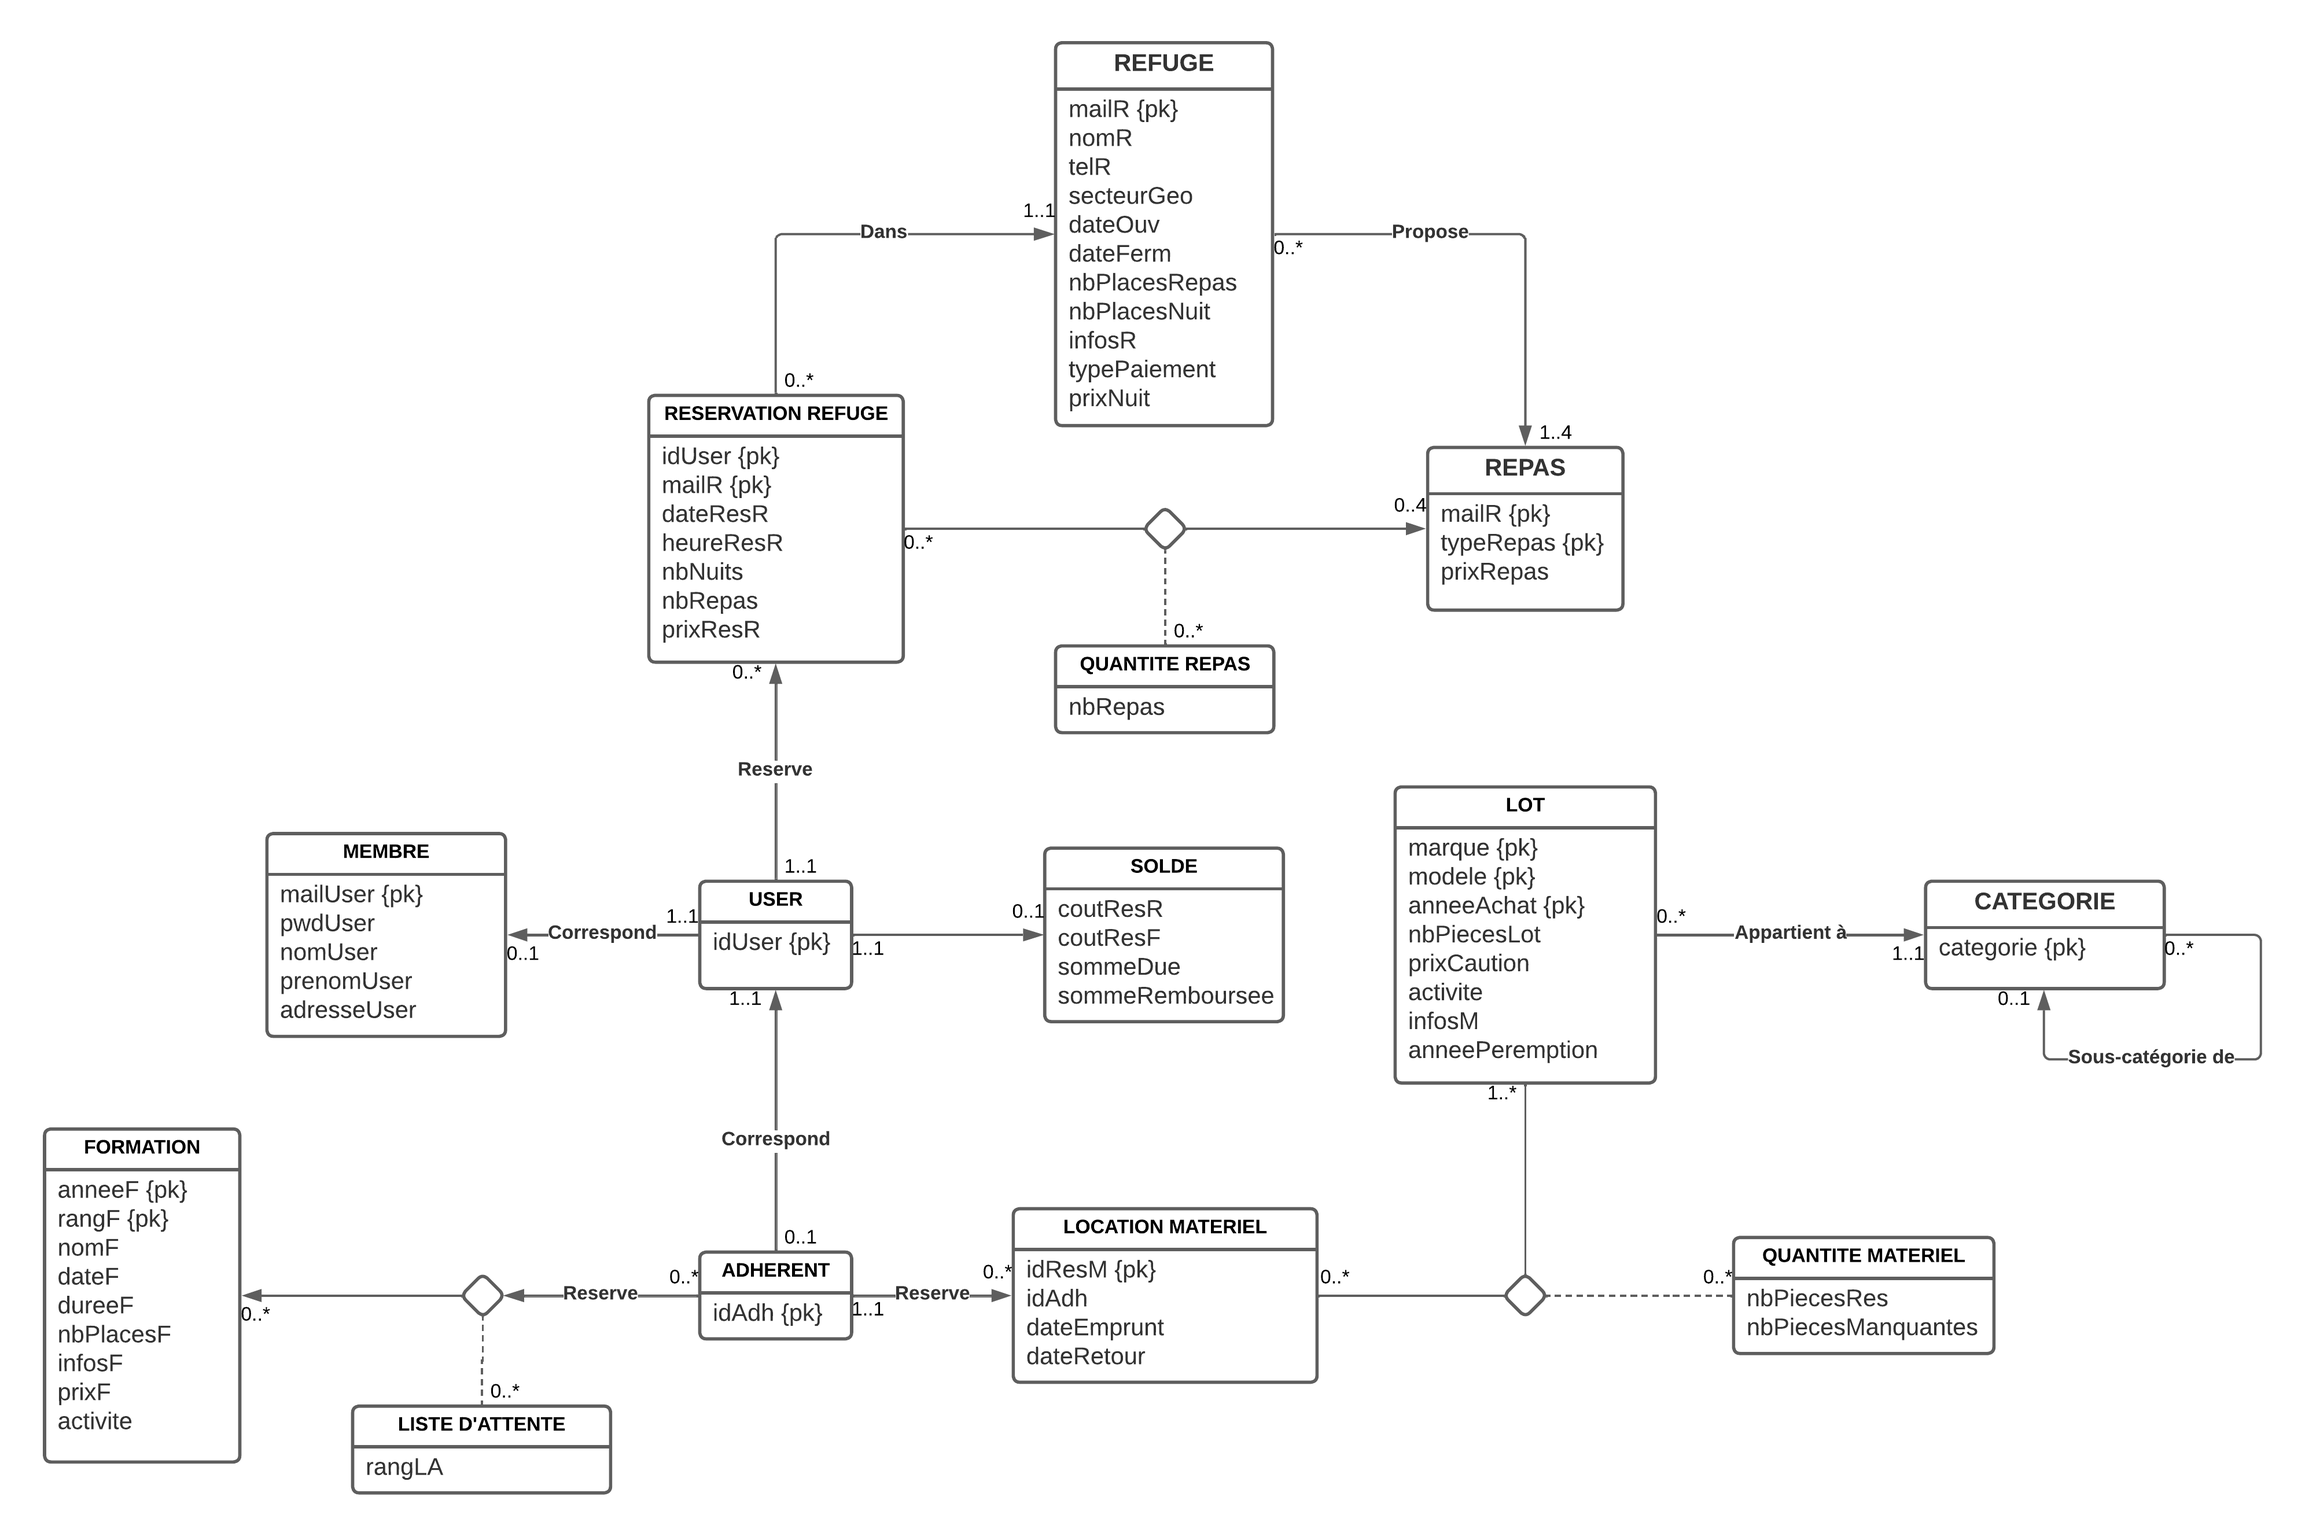
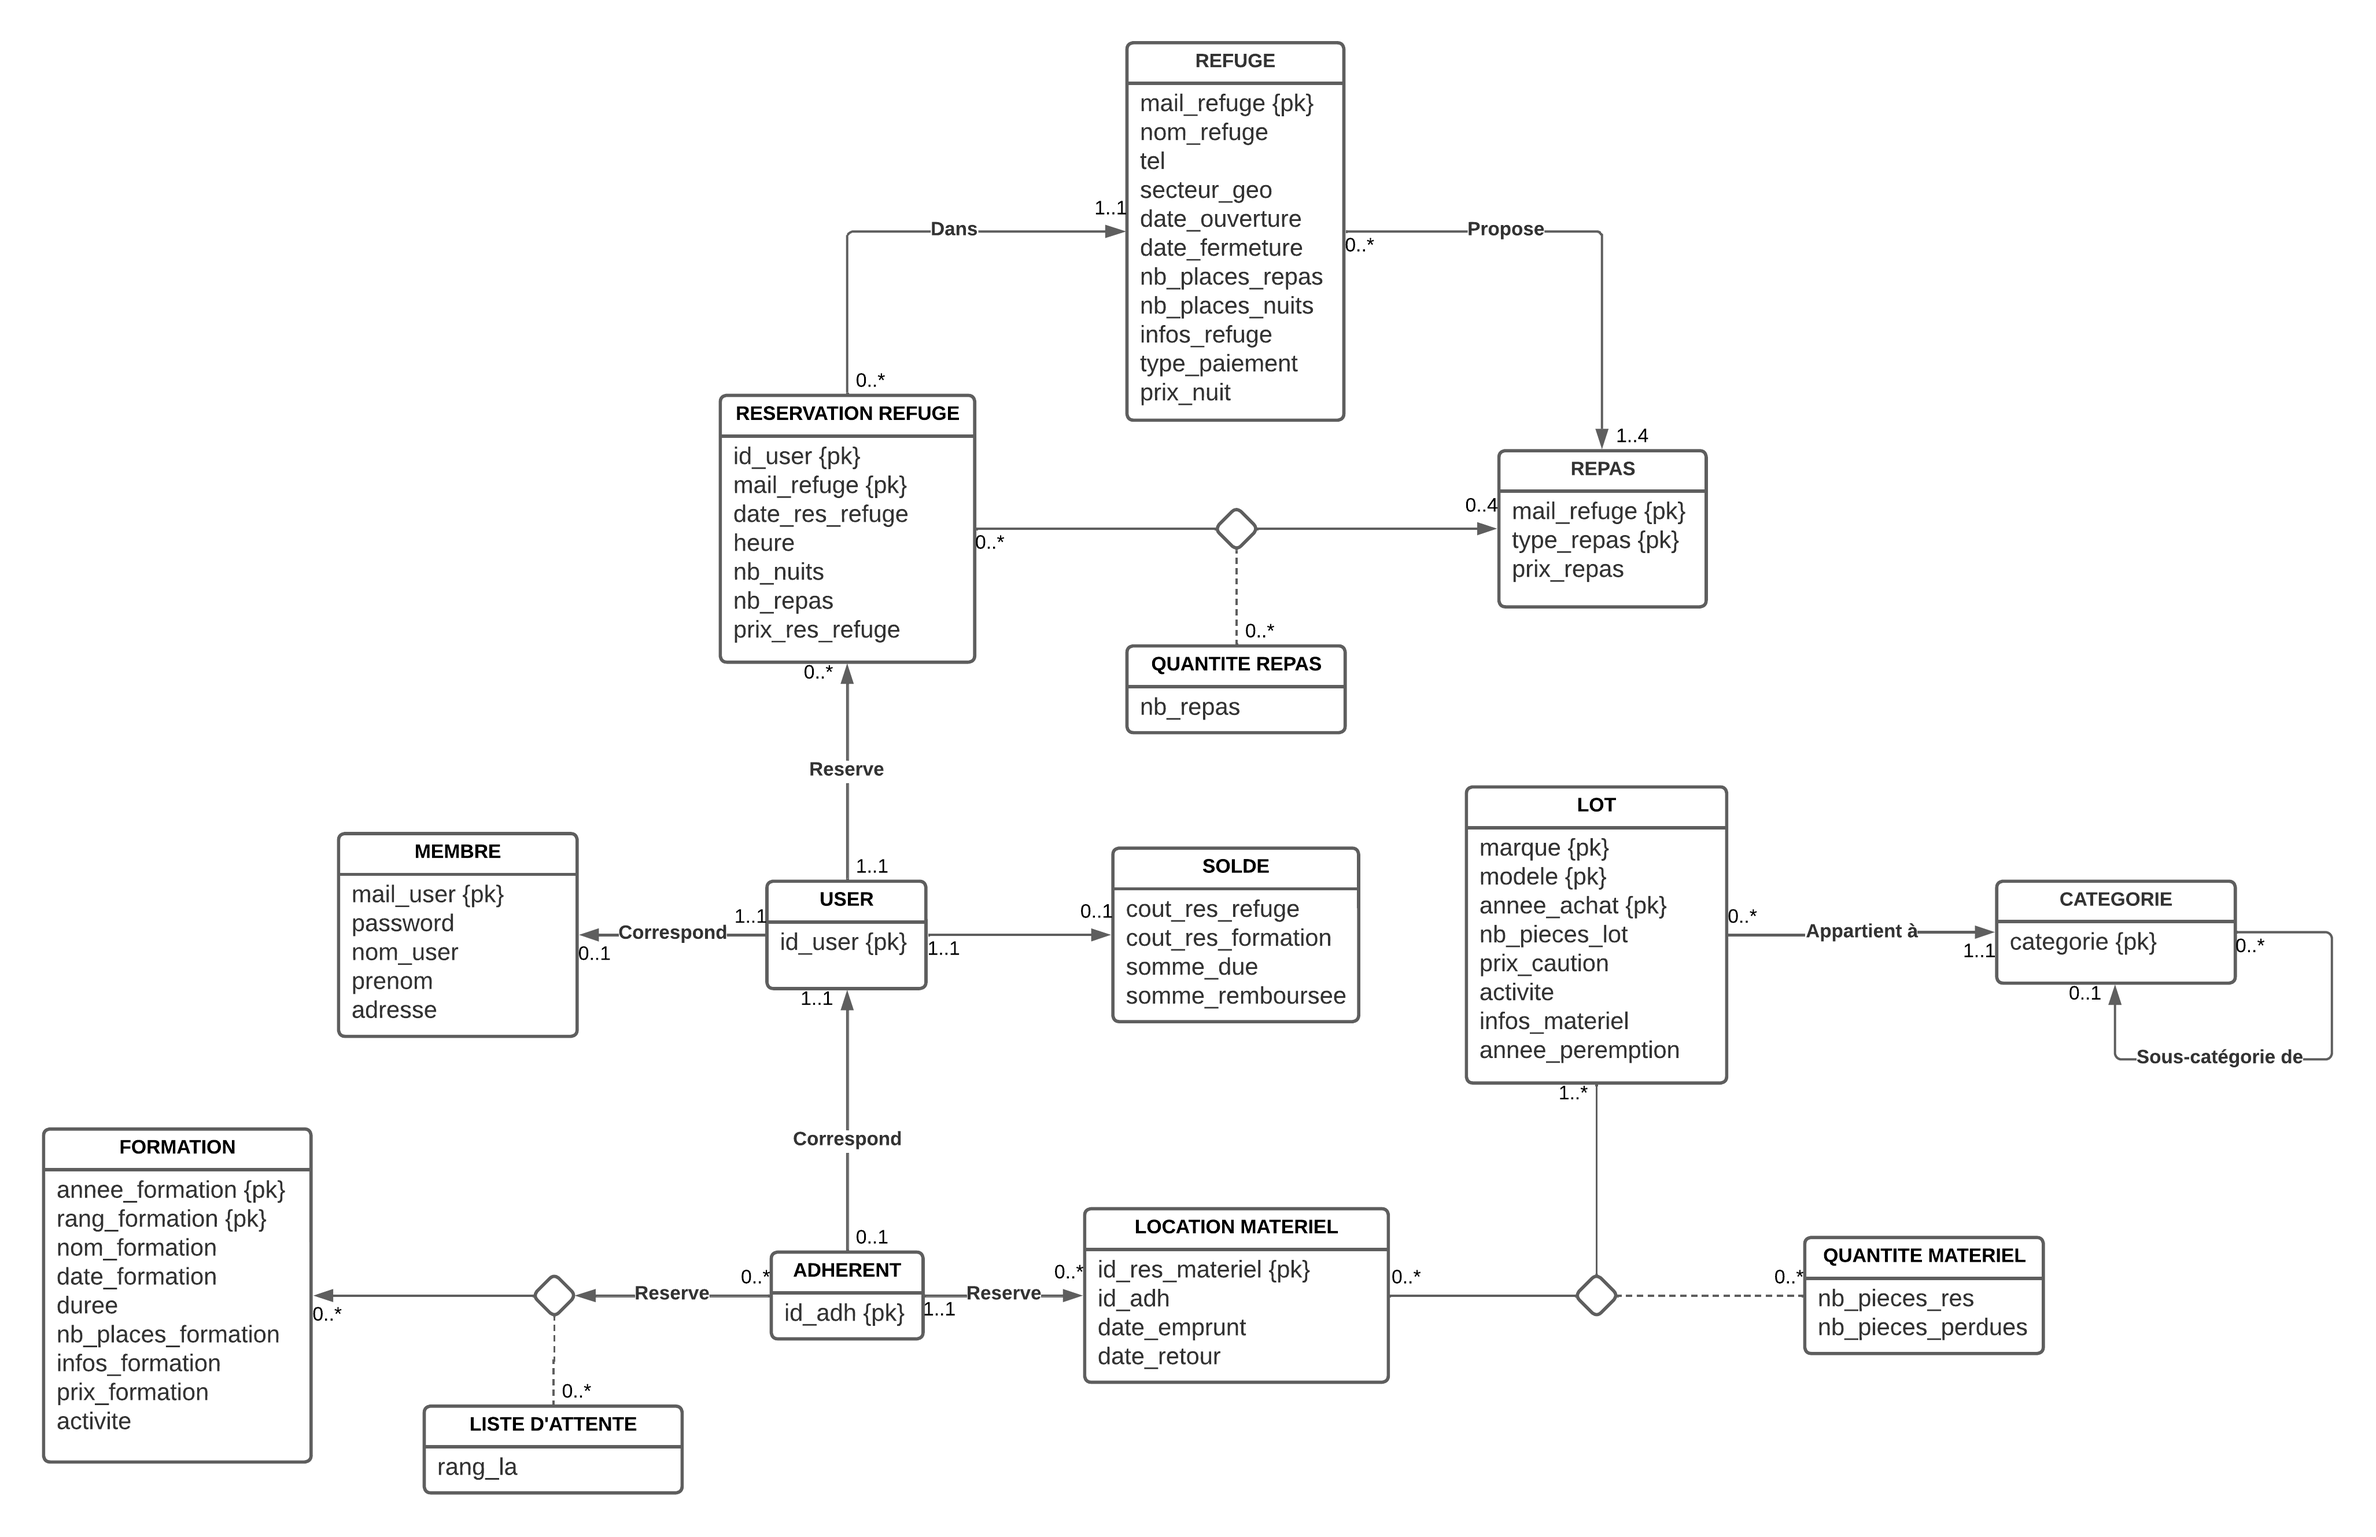
Schéma Entités/Associations

diff --git a/README.md b/README.md
@@ -3,67 +3,65 @@
 ## Analyse statique
 
 ### Propriétés
-- mailR, nomR, telR, secteurGeo, dateOuv, dateFerm, nbPlacesRepas, nbPlacesNuit, infosR, typePaiement, prixNuit, typeRepas, prixRepas
-- anneeF, rangF, nomF, dateF, dureeF, nbPlacesF, infosF, prixF, activite
-- marque, modele, anneeAchat, categorie, nbPiecesLot, prixCaution, infosM, anneePeremption
-- idUser, mailUser, pwdUser, nomUser, prenomUser, adresseUser, idAdh
-- dateResR, heureResR, nbNuits, nbRepas, prixResR
-- rangLA
-- idResM, nbPiecesRes, dateEmprunt, dateRetour, nbPiecesManquantes
-- coutResR, coutResF, sommeDue, sommeRemboursee
+- mail_refuge, nom_refuge, tel, secteur_geo, date_ouverture, date_fermeture, nb_places_repas, nb_places_nuits, infos_refuge, type_paiement, prix_nuit, type_repas, prix_repas
+- annee_formation, rang_formation, nom_formation, date_formation, duree, nb_places_formation, infos_formation, prix_formation, activite
+- marque, modele, annee_achat, categorie, nb_pieces_lot, prix_caution, infos_materiel, annee_peremption
+- id_user, mail_user, password, nom_user, prenom, adresse, id_adh
+- date_res_refuge, heure, nb_nuits, nb_repas, prix_res_refuge
+- rang_la
+- id_res_materiel, nb_pieces_res, date_emprunt, date_retour, nb_pieces_perdues
+- cout_res_refuge, cout_res_formation, somme_due, somme_remboursee
 
 ### Dépendances fonctionelles
-- mailR $\to$ nomR, telR, secteurGeo, dateOuv, dateFerm, nbPlacesRepas, nbPlacesNuit, infosR, typePaiement, prixNuit, typeRepas
-- mailR, typeRepas $\to$ prixRepas
-- anneeF, rangF $\to$ nomF, dateF, dureeF, nbPlacesF, infosF, prixF, activite
-- marque, modele, anneeAchat $\to$ categorie, nbPiecesLot, prixCaution, activite, infosM, anneePeremption
-- idUser $\to$ mailUser, pwdUser, nomUser, prenomUser, adresseUser, idAdh
-- idAdh $\to$ idUser
-- idUser, mailR $\to$ dateResR, heureResR, nbNuits, typeRepas
-- idUser, mailR, typeRepas $\to$ nbRepas
-- idUser, mailR, nbNuits, nbRepas $\to$ prixResR
-- idAdh, anneeF, rangF $\to$ rangLA
-- idResM $\to$ idAdh, marque, modele, anneeAchat, dateEmprunt, dateRetour
-- idResM, marque, modele, anneeAchat $\to$ nbPiecesRes, nbPiecesManquantes
-- idUser $\to$ coutResR, coutResF, sommeDue, sommeRemboursee
+- mail_refuge $\to$ nom_refuge, tel, secteur_geo, date_ouverture, date_fermeture, nb_places_repas, nb_places_nuits, infos_refuge, type_paiement, prix_nuit, type_repas
+- mail_refuge, type_repas $\to$ prix_repas
+- annee_formation, rang_formation $\to$ nom_formation, date_formation, duree, nb_places_formation, infos_formation, prix_formation, activite
+- marque, modele, annee_achat $\to$ categorie, nb_pieces_lot, prix_caution, activite, infos_materiel, annee_peremption
+- id_user $\to$ mail_user, password, nom_user, prenom, adresse, id_adh
+- id_adh $\to$ id_user
+- id_user, mail_refuge $\to$ date_res_refuge, heure, nb_nuits, type_repas
+- id_user, mail_refuge, type_repas $\to$ nb_repas
+- id_user, mail_refuge, nb_nuits, nb_repas $\to$ prix_res_refuge
+- id_adh, annee_formation, rang_formation $\to$ rang_la
+- id_res_materiel $\to$ id_adh, marque, modele, annee_achat, date_emprunt, date_retour
+- id_res_materiel, marque, modele, annee_achat $\to$ nb_pieces_res, nb_pieces_perdues
+- id_user $\to$ cout_res_refuge, cout_res_formation, somme_due, somme_remboursee
 
 ### Contraintes de valeur
-- typePaiement $\in$ {espèce, chèque, carte-bleue}
-- typeRepas $\in$ {déjeuner, dîner, souper, casse-croûte}
+- type_paiement $\in$ {espèce, chèque, carte-bleue}
+- type_repas $\in$ {déjeuner, dîner, souper, casse-croûte}
 - activite $\in$ {randonnée, escalade, alpinisme, spéléologie, ski de rando, cascade de glace}
-- dateOuv < dateFerm
-- anneeAchat < anneePeremption
-- nbNuits ≤ nbPlacesNuits
-- nbPiecesRes ≤ nbPiecesLot
-- dateEmprunt < dateRetour + 2 semaines
-- nbPiecesManquantes ≤ nbPiecesRes
-- sommeRemboursee ≤ sommeDue
-- nbPlacesRepas, nbPlacesNuit, prixNuit, prixRepas, rangF, dureeF, nbPlacesF, prixF, nbPiecesLot, prixCaution, idUser, idAdh, prixResR, idResM, nbPiecesRes,  > 0
-- nbNuits, nbRepas, rangLA, nbPiecesManquantes, coutResR, coutResF, sommeDue, sommeRemboursee ≥ 0
+- date_ouverture < date_fermeture
+- annee_achat < annee_peremption
+- nb_nuits ≤ nb_places_nuits
+- nb_pieces_res ≤ nb_pieces_lot
+- date_emprunt < date_retour + 2 semaines
+- nb_pieces_perdues ≤ nb_pieces_res
+- somme_remboursee ≤ somme_due
+- nb_places_repas, nb_places_nuits, prix_nuit, prix_repas, rang_formation, duree, nb_places_formation, prix_formation, nb_pieces_lot, prix_caution, id_user, id_adh, prix_res_refuge, id_res_materiel, nb_pieces_res > 0
+- nb_nuits, nb_repas, rang_la, nb_pieces_perdues, cout_res_refuge, cout_res_formation, somme_due, somme_remboursee ≥ 0
 
 ### Contraintes de multiplicité
-- mailR $\nrightarrow$ telR
-- mailR $\twoheadrightarrow$ typeRepas
-- anneeF, rangF $\twoheadrightarrow$ activite
-- marque, modele, anneeAchat $\twoheadrightarrow$ activite
-- marque, modele, anneeAchat $\nrightarrow$ infosM
-- marque, modele, anneeAchat $\nrightarrow$ anneePeremption
+- mail_refuge $\nrightarrow$ tel
+- mail_refuge $\twoheadrightarrow$ type_repas
+- annee_formation, rang_formation $\twoheadrightarrow$ activite
+- marque, modele, annee_achat $\twoheadrightarrow$ activite
+- marque, modele, annee_achat $\nrightarrow$ infos_materiel
+- marque, modele, annee_achat $\nrightarrow$ annee_peremption
 - categorie -|->> categorie
-- idUser $\nrightarrow$ mailUser, pwdUser, nomUser, prenomUser, adresseUser
-- idUser $\nrightarrow$ idAdh
-- idUser, mailR -|->> typeRepas
-- idResM $\twoheadrightarrow$ marque, modele, anneeAchat
+- id_user $\nrightarrow$ mail_user, password, nom_user, prenom, adresse
+- id_user $\nrightarrow$ id_adh
+- id_user, mail_refuge -|->> type_repas
+- id_res_materiel $\twoheadrightarrow$ marque, modele, annee_achat
 
 ### Contraintes contextuelles
 - Les catégories de matériels sont organisées en un arbre avec des sous-catégories
 - Un membre peut uniquement faire des réservations dans les refuges. Seuls les adhérents peuvent s'inscrire à des formations et emprunter du matériel
-- Les membres ont la possibilité de réserver pour un seul ou plusieurs repas dans la jorunée. Ils peuvent également ne réserver que des repas sans la nuitéé ou inversement
+- Les membres ont la possibilité de réserver pour un seul ou plusieurs repas dans la jorunée. Ils peuvent également ne réserver que des repas sans la nuitée ou inversement
 - Prise en compte de la liste d'attente pour les formations
 - Lors de la perte/casse de matériel, ceux-ci doivent être retirés des lots et la somme due par l'adhérent doit être calculée
 - Prise en compte du droit à l'oubli
 
 ## Schéma Entités/Associations
-
-
 
 [![Schéma Entités/Associations](./schema-ea.png "Schéma Entités/Associations")](https://lucid.app/lucidchart/d2b8bb44-d24a-4599-b568-6898c1b309ea/edit?viewport_loc=-3250%2C-644%2C3188%2C1676%2C0_0&invitationId=inv_f91eb197-61a8-4c7f-8a35-ea307b3efd57)

diff --git a/notes.md b/notes.md
@@ -45,18 +45,18 @@ Exemple :
 
 ```sql
 CREATE TABLE Eleves (
-	prenom varchar(30) NOT NULL,
-	nom varchar (30) NOT NULL,
-	email varchar (30),
-	option varchar (5),
+	prenom VARCHAR(30) NOT NULL,
+	nom VARCHAR (30) NOT NULL,
+	email VARCHAR (30),
+	OPTION VARCHAR (5),
 	PRIMARY KEY (prenom, nom)
 );
 
 CREATE TABLE Notes (
-	cours varchar (30) NOT NULL,
-	prenom varchar (30) NOT NULL,
-	nom varchar (30) NOT NULL,
-	note integer,
+	cours VARCHAR (30) NOT NULL,
+	prenom VARCHAR (30) NOT NULL,
+	nom VARCHAR (30) NOT NULL,
+	note INTEGER,
 	PRIMARY KEY(cours, prenom, nom),
 	FOREIGN KEY (prenom, nom) REFERENCES Eleves(prenom, nom)
 );
